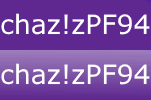
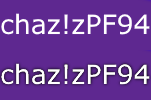
update assets

diff --git a/index.html b/index.html
@@ -52,6 +52,10 @@ PF94
 <a data-se="subnav-github" href="https://github.com/PF94/ChazizVEWebsite">
 Source Code
 </a>
+</li><li>
+<a data-se="subnav-sac" href="https://discord.gg/XjX34ZK">
+Discord
+</a>
 </li>
 <li><a href="https://chazizyt.blogspot.com/feeds/posts/default">
 <img border="0" src="assets/ATOM_FFS.png"></img></a></li></ul>
@@ -103,12 +107,18 @@ Source Code
 &nbsp;</p>
 <p align="center">
 </font> </p>
-<div style="border:1px solid #000000; position: absolute; width: 365px; height: 153px; z-index: 3; left: 524px; top: 147px; padding-left:4px; padding-right:4px; padding-top:1px; padding-bottom:1px; background-color:#EFEFEF; visibility:visible" id="greetingsbox1">
+<div style="border:1px solid #000000; position: absolute; width: 391px; height: 201px; z-index: 3; left: 524px; top: 147px; padding-left:4px; padding-right:4px; padding-top:1px; padding-bottom:1px; background-color:#2C2F33; visibility:visible" id="greetingsbox1">
 <h5 align="left">
-&nbsp;SlyAlligator Community</h5>
+<font color="#FFFFFF">&nbsp;Gamerappa Community</font></h5>
+<font color="#FFFFFF">
 <p>
-<img border="0" src="assets/newicon.png" width="75" height="80"> <b>
-<font size="4">&nbsp;</font></b><a href="https://discord.gg/XjX34ZK"><img border="0" src="assets/joinnow.png" width="256" height="73"></a></p>
+<img border="0" src="assets/gr.png" width="80" height="80"> <b>
+<font size="4">&nbsp;&nbsp;&nbsp; </font></b></font><a href="https://discord.gg/XjX34ZK"><font color="#FFFFFF"><img border="0" src="assets/joinnow.png" width="256" height="73"></font></a></p>
+<h6 style="text-align: left">
+<span style="font-weight: 400"><font color="#FFFFFF">Notice: Take your own risk, 
+there's a lot of
+<a href="https://media.discordapp.net/attachments/737791548435071041/749058036076773376/unknown.png">
+idiotic stuff</a> that kind of happens on this discord.</font></span></h6>
 	</div>
 <div style="border-style:solid; border-width:1px; position: absolute; width: 365px; height: 196px; z-index: 3; left: 144px; top: 354px; padding-left:4px; padding-right:4px; padding-top:1px; padding-bottom:1px; background-color:#EFEFEF; visibility:visible" id="greetingsbox0">
 <h5 align="left">What's coming soon.</h5>
@@ -123,7 +133,7 @@ Source Code
 	</div>
 <div style="border:1px solid #000000; position: absolute; width: 365px; height: 196px; z-index: 3; left: 144px; top: 147px; padding-left:4px; padding-right:4px; padding-top:1px; padding-bottom:1px; background-color:#EFEFEF; visibility:visible" id="greetingsbox">
 <p align="left">
-<img border="0" src="assets/logoshadow.png" width="274" height="46">&nbsp;</p>
+<img border="0" src="assets/logo_HQ - Copy.png" width="274" height="46">&nbsp;</p>
 <p align="left">
 <font color="#000000">Welcome to the chaz!zPF94 website!</font></p>
 <p align="left">
@@ -144,7 +154,11 @@ Entertainment!</p>
 <p align="center">&nbsp;</p>
 <div style="position: absolute; left: 12px; top: 562px; width: 551px; height: 21px; z-index: 5; visibility:visible" id="Footer">
 <p class="Legalese">
-        Chaz!zPF94 is not sponsored, authorized or endorsed by Nintendo, Roblox 
-		Corporation, or anything else.</p></div>
+        chaz!zPF94 is not sponsored, authorized or endorsed by Nintendo, Roblox 
+		Corporation, or anything else.</p>
+<p class="Legalese">
+        &nbsp;</p>
+<p class="Legalese">
+        This website is created, and owned by Gamerappa.</p></div>
 </body>
 </html>
